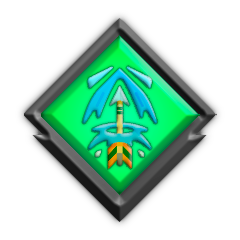
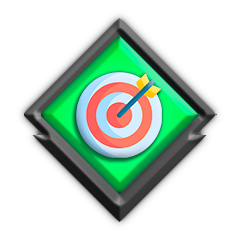
4.0

Changed region(s): [[0.2917, 0.2625, 0.7, 0.7292]]

diff --git a/hero_JS/skill_tree_bonus_about.js b/hero_JS/skill_tree_bonus_about.js
@@ -353,13 +353,13 @@ var skill_tree_bonus_about = [
         [   //  Ветка 2-го навыка
             "Манакост способности",
             "Урон способности", "Перезарядка способности",
-            "Дальность применения", "Урон", "Манакост способности", "Урон способности",
+            "Регенерация маны", "Урон", "Мана", "Урон способности",
             "Скорость атаки", "Урон способности",
-            "Уворот", "Манакост способности", "Магический вампиризм", "Скорость атаки",
-            "Здоровье", "Регенерация маны", "", "Магический вампиризм", "Шанс крита",
+            "Уворот", "Скорость атаки", "Магический вампиризм", "Урон",
+            "Здоровье", "Защита", "", "Магический вампиризм", "Шанс крита",
             "Урон", "Урон способности", "Скорость атаки",
             "Крит урон", "", "Перезарядка способности", "", "Шанс крита",
-            "", "", "Регенерация здоровья", "Регенерация маны", "Уворот", "", "",
+            "", "", "Регенерация здоровья", "Манакост способности", "Уворот", "", "",
             "Магический вампиризм", "", "Эффективность лечения", "", "Сопротивление эффектам", "", "Скорость",
             "Вампиризм", "", "", "", "", "Вампиризм"
         ],

diff --git a/hero_JS/script.js b/hero_JS/script.js
@@ -546,7 +546,7 @@ function change_tree(tree_number) {
             document.getElementById("select_all_tree_upgrade").innerHTML = "Выбрать все";
             if(select_tree_helper[i][j] == 1) {
                 if(skill_tree_about[select_hero][tree_number][counter] != "" && skill_tree_image[select_hero][tree_number][counter] == "") {
-                    table.rows[i].cells[j].style.backgroundImage = "url(skill_tree/temp.png)";
+                    table.rows[i].cells[j].style.backgroundImage = "url(skill_tree/spell_upgrade.png)";
                 }
                 else {
                     var flag_image = true;
@@ -555,7 +555,7 @@ function change_tree(tree_number) {
                             if(skill_tree_attribute_images[k] != "")
                                 table.rows[i].cells[j].style.backgroundImage = "url(skill_tree/" + skill_tree_attribute_images[k] + ".png)";
                             else
-                                table.rows[i].cells[j].style.backgroundImage = "url(skill_tree/temp.png)";
+                                table.rows[i].cells[j].style.backgroundImage = "url(skill_tree/spell_upgrade.png)";
                             flag_image = false;
                         }
                     }

diff --git a/hero_JS/skill_tree_cost.js b/hero_JS/skill_tree_cost.js
@@ -1,27 +1,13 @@
-/*var skill_tree_cost = [ //  Стоимость прокачки ветки навыков или героя   
-    100,
-    500, 300,
-    1700, 700, 2500, 1000,
-    1200, 1500,
-    1500, 3500, 3000, 3000,
-    2500, 3500, 5000, 4500, 4500,
-    4000, 4500, 4000,
-    7000, 22000, 8000, 22000, 7000,
-    10000, 20000, 10000, 12000, 10000, 20000, 10000,
-    18000, 18000, 15000, 20000, 15000, 18000, 18000,
-    24000, 24000, 20000, 20000, 24000, 24000
-];*/
-
 var skill_tree_cost = [ //  Стоимость прокачки ветки навыков или героя   
     100,
-    200, 200,
-    400, 300, 500, 300,
+    150, 200,
+    250, 300, 250, 300,
     400, 400,
     500, 700, 500, 500,
     700, 700, 1000, 700, 700,
     450, 600, 450,
-    600, 1000, 800, 1000, 600,
-    850, 2000, 800, 1000, 800, 2000, 850,
+    600, 700, 800, 700, 600,
+    750, 2000, 800, 1000, 800, 2000, 750,
     850, 850, 1000, 2000, 1000, 850, 850,
     1100, 1100, 1200, 1200, 1100, 1100
 ];
